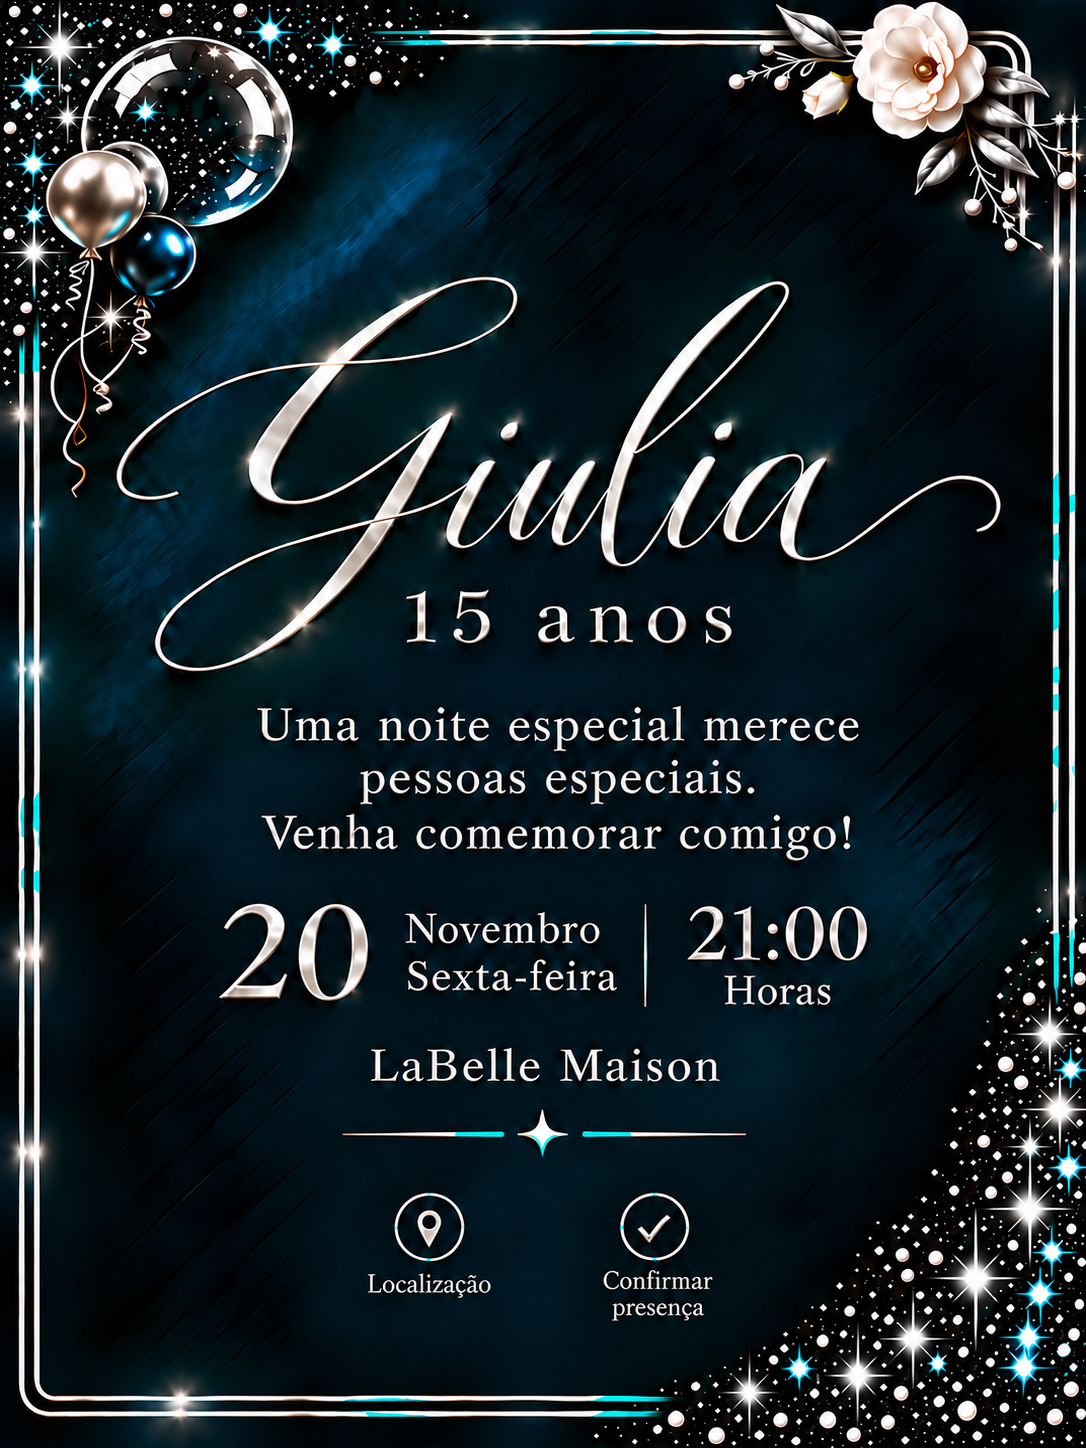
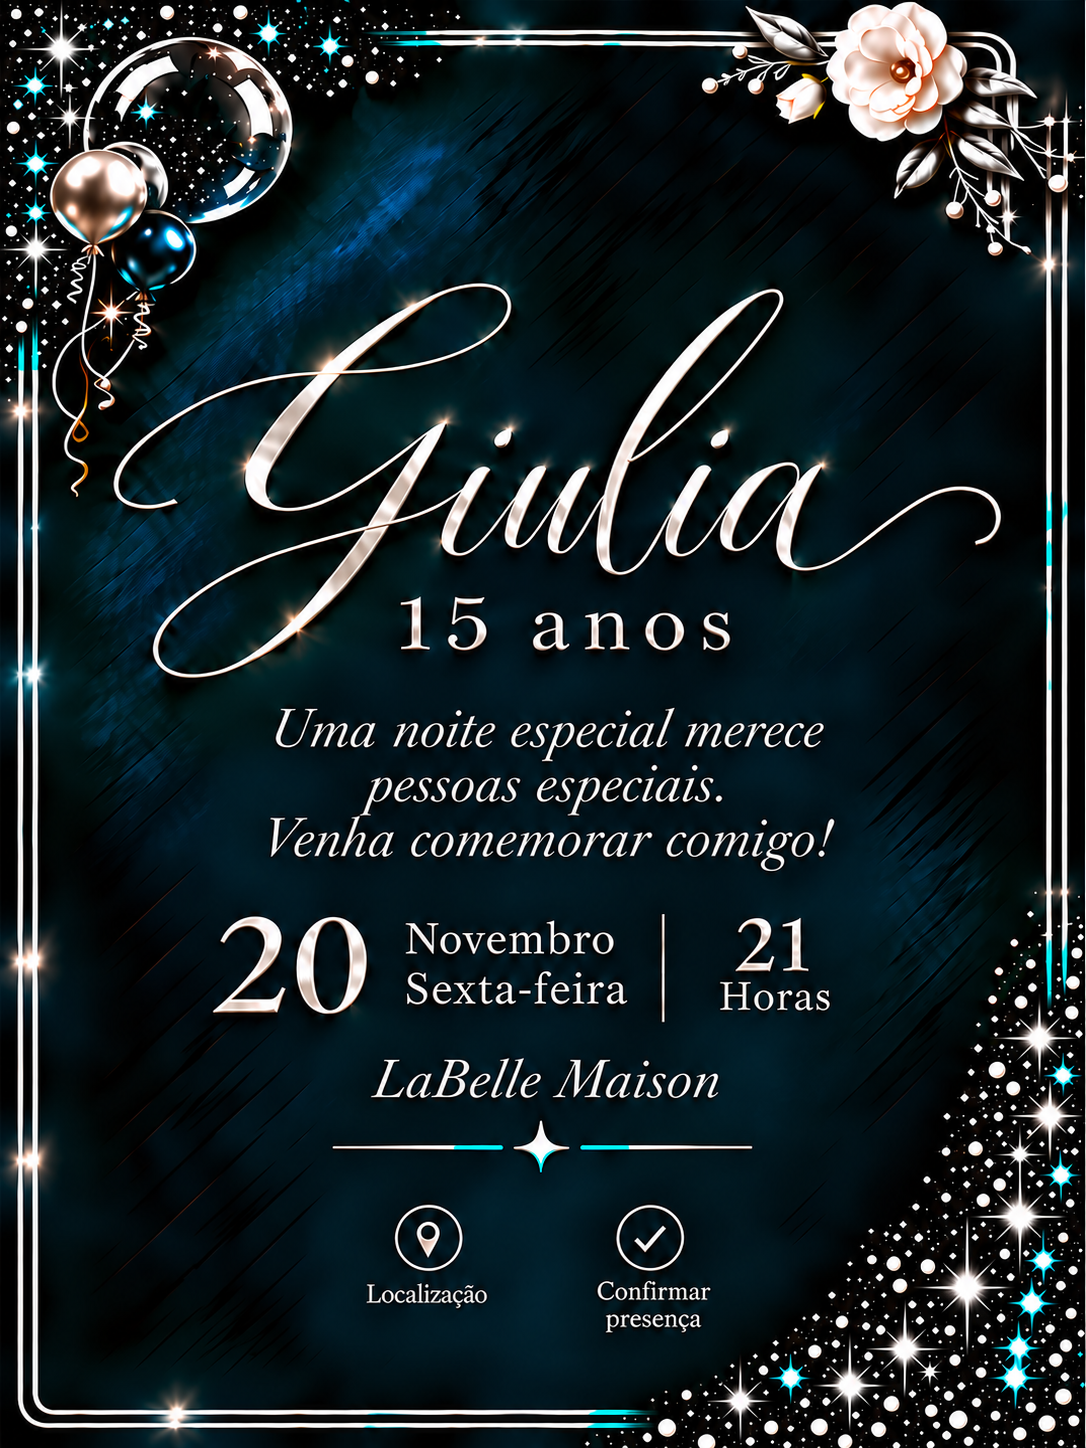
Substituir convite pela nova arte elegante

diff --git a/index.html b/index.html
@@ -21,8 +21,8 @@
   <meta name="twitter:title" content="Giulia · 15 anos">
   <meta name="twitter:image" content="https://gabriela-mazon.github.io/convite-giulia/previa-whatsapp-v2.jpg">
   <title>Giulia · 15 anos</title>
-  <link rel="stylesheet" href="style.css?v=17">
-  <script src="script.js?v=17" defer></script>
+  <link rel="stylesheet" href="style.css?v=18">
+  <script src="script.js?v=18" defer></script>
 </head>
 <body>
   <div class="ambient" aria-hidden="true"></div>
@@ -31,7 +31,7 @@
     <div class="opening-lights" id="opening-lights" aria-hidden="true"></div>
     <p class="eyebrow">UMA NOITE PARA GUARDAR PARA SEMPRE</p>
     <div class="envelope">
-      <div class="envelope-inside" aria-hidden="true"><img src="convite-giulia.png" alt=""></div>
+      <div class="envelope-inside" aria-hidden="true"><img src="convite-giulia.png?v=18" alt=""></div>
       <div class="envelope-wing wing-left" aria-hidden="true"><span class="foil-frame"></span><span class="corner-stars"><i></i><i></i><i></i><i></i><i></i></span></div>
       <div class="envelope-wing wing-right" aria-hidden="true"><span class="foil-frame"></span><span class="corner-stars"><i></i><i></i><i></i><i></i><i></i></span></div>
       <button class="seal" id="open-invitation" aria-label="Abrir o convite dos 15 anos da Giulia">
@@ -45,7 +45,7 @@
   <main id="invitation" hidden>
     <header class="topline"><span>GIULIA</span><span>UMA NOVA HISTÓRIA · 15 ANOS</span></header>
     <figure class="invitation-card">
-      <img src="convite-giulia.png" width="1086" height="1448" alt="Convite de Giulia, 15 anos. Uma noite especial merece pessoas especiais. Venha comemorar comigo! 20 de novembro, sexta-feira, às 21:00, LaBelle Maison.">
+      <img src="convite-giulia.png?v=18" width="1086" height="1448" alt="Convite de Giulia, 15 anos. Uma noite especial merece pessoas especiais. Venha comemorar comigo! 20 de novembro, sexta-feira, às 21 horas, LaBelle Maison.">
       <button class="art-button location" data-action="location" aria-label="Ver localização"><span class="sr-only">Localização</span></button>
       <button class="art-button rsvp" data-action="rsvp" aria-label="Confirmar presença"><span class="sr-only">Confirmar presença</span></button>
       <div class="card-shine" aria-hidden="true"></div>

diff --git a/style.css b/style.css
@@ -119,6 +119,6 @@
 /* A arte já foi revelada pelas abas: não repetir a animação de entrada. */
 #invitation{animation:none!important}
 .background-player{position:fixed;left:-10000px;top:0;width:356px;height:200px;margin:0;pointer-events:none}
-.art-button{top:82%;height:10%}
+.art-button{top:83%;height:10%}
 .location{left:31%}
 .rsvp{left:52%}
